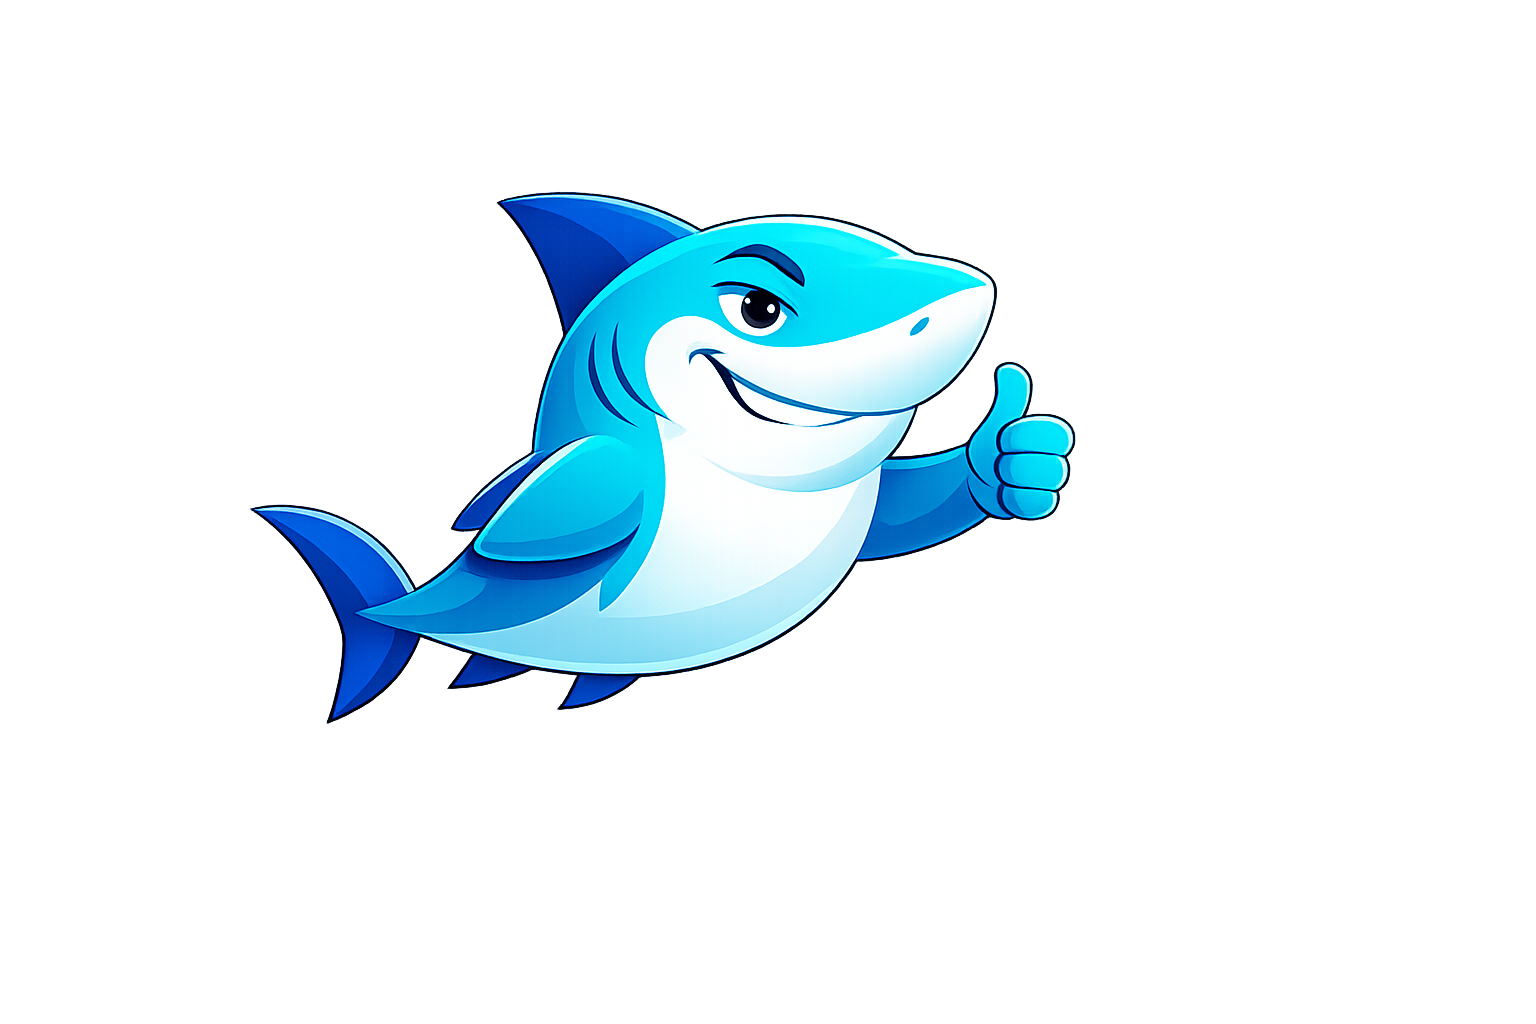
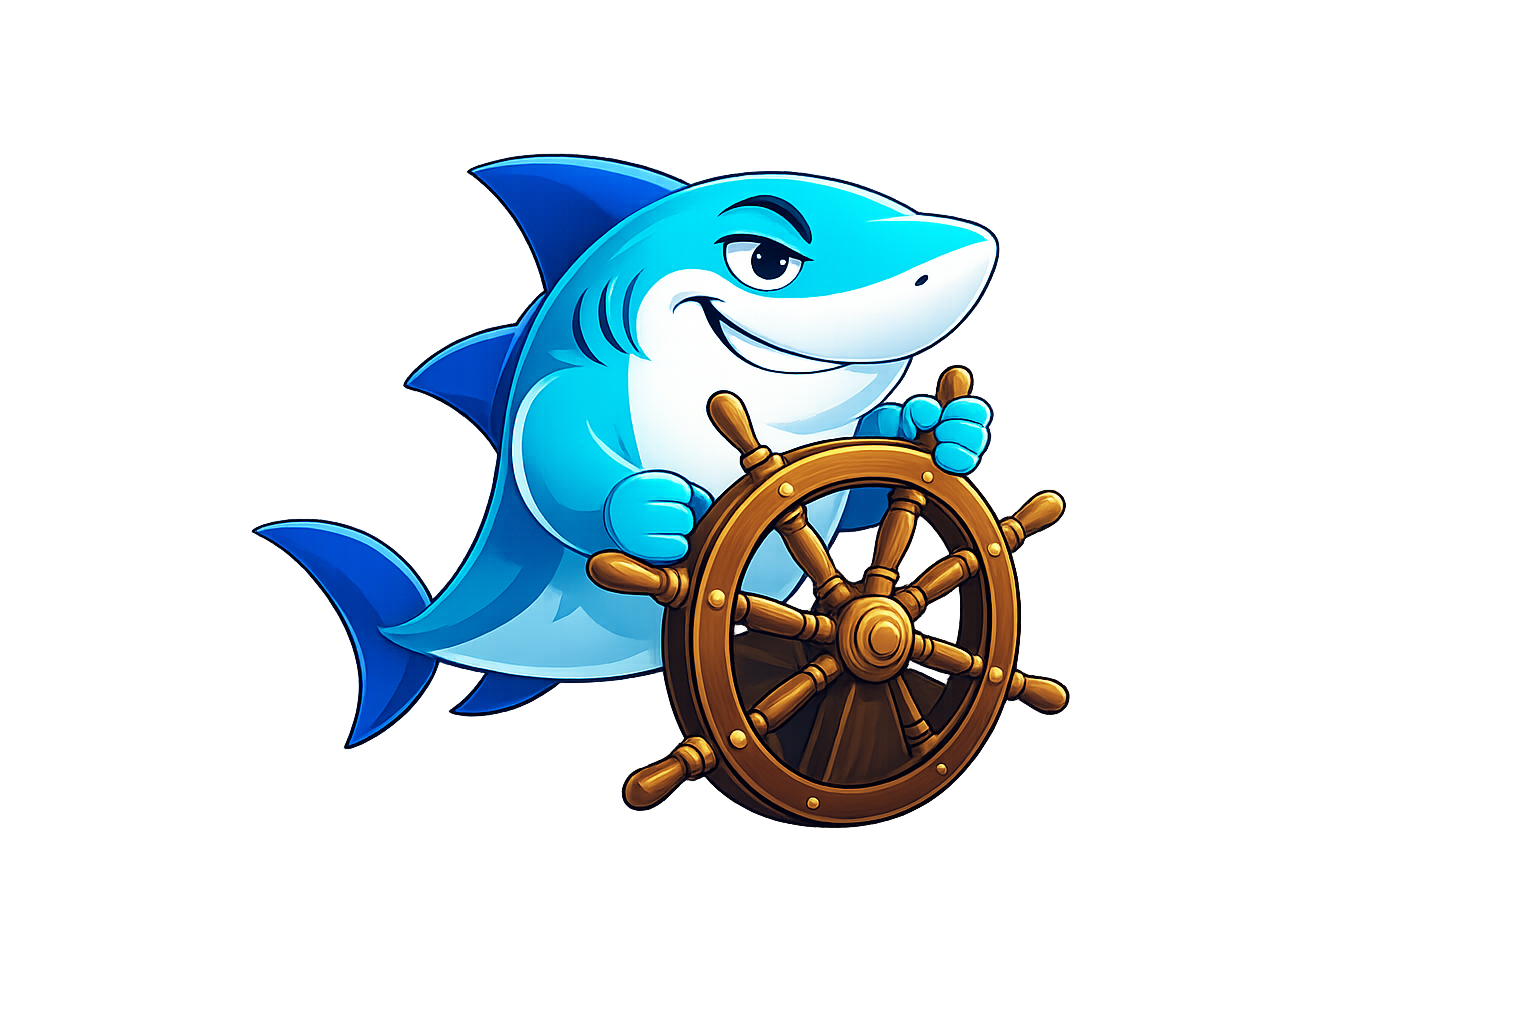
feat: teal accent, ArgoCD-style sidebar, floating AI panel, correct mascot (#12)
* feat(ui): ArgoCD-style sidebar logo, teal accent, remove docs/assistant routes

- Big mascot + version in sidebar logo (ArgoCD-inspired)
- Shift accent from cyan (hue 200) to teal (hue 185) to differentiate from ArgoCD
- Remove Docs and AI Assistant from sidebar nav
- AI accessed via floating panel (AWS Q pattern), docs via readthedocs
- Remove /assistant and /docs routes

* feat(ui): enhance floating AI panel with export, new chat, page context

* fix(ui): use correct mascot (shark at helm, not thumb-up)

Changed region(s): [[0.1562, 0.125, 0.7188, 0.8125]]

diff --git a/ui/src/components/Layout.tsx b/ui/src/components/Layout.tsx
@@ -6,7 +6,6 @@ import {
   Package,
   Activity,
   BarChart3,
-  BookOpen,
   Settings,
   ChevronLeft,
   ChevronRight,
@@ -17,7 +16,6 @@ import {
   User,
   Menu,
   Search,
-  MessageSquare,
 } from 'lucide-react'
 import { useConnections } from '@/hooks/useConnections'
 import { FloatingAssistant } from '@/components/FloatingAssistant'
@@ -60,13 +58,6 @@ const navSections: NavSection[] = [
       { to: '/settings', label: 'Settings', icon: Settings },
     ],
   },
-  {
-    label: 'Help',
-    items: [
-      { to: '/assistant', label: 'AI Assistant', icon: MessageSquare },
-      { to: '/docs', label: 'Docs', icon: BookOpen },
-    ],
-  },
 ]
 
 const routeLabels: Record<string, string> = {
@@ -76,9 +67,7 @@ const routeLabels: Record<string, string> = {
   'version-matrix': 'Version Drift Detector',
   observability: 'Observability',
   upgrade: 'Addon Upgrade Checker',
-  assistant: 'AI Assistant',
   dashboards: 'Dashboards',
-  docs: 'Docs',
   settings: 'Settings',
   users: 'User Management',
   'api-keys': 'API Keys',
@@ -151,12 +140,17 @@ export function Layout() {
         <Link
           to="/dashboard"
           aria-label="Sharko — go to dashboard"
-          className="flex h-14 items-center gap-2 border-b border-[#1A2D4A] px-4 transition-colors hover:bg-[#132038]"
+          className="flex items-center gap-3 border-b border-[#1A2D4A] px-4 py-3 transition-colors hover:bg-[#132038]"
           onClick={() => setMobileOpen(false)}
         >
-          <img src="/sharko-mascot.png" alt="" className="h-8 w-auto shrink-0" />
-          {!collapsed && (
-            <span className="text-sm font-bold text-cyan-400">Sharko</span>
+          <img src="/sharko-mascot.png" alt="" className={collapsed && !mobileOpen ? 'h-8 w-auto' : 'h-14 w-auto'} />
+          {(!collapsed || mobileOpen) && (
+            <div>
+              <span className="text-lg font-bold text-teal-400">Sharko</span>
+              {appVersion && (
+                <p className="text-[10px] text-[#5A7A9B]">v{appVersion}</p>
+              )}
+            </div>
           )}
         </Link>
 
@@ -179,7 +173,7 @@ export function Layout() {
                     className={({ isActive }) =>
                       `flex items-center gap-3 rounded-lg px-3 py-2 text-sm font-medium transition-colors ${
                         isActive
-                          ? 'border-l-[3px] border-cyan-400 bg-[#1A2D4A] text-white'
+                          ? 'border-l-[3px] border-teal-400 bg-[#1A2D4A] text-white'
                           : 'border-l-[3px] border-transparent text-[#94B8DB] hover:bg-[#132038] hover:text-white'
                       } ${collapsed && !mobileOpen ? 'justify-center px-0' : ''}`
                     }
@@ -194,13 +188,6 @@ export function Layout() {
           ))}
         </nav>
 
-        {/* Decorative mascot */}
-        {!collapsed && (
-          <div className="flex justify-center px-4 pb-2">
-            <img src="/sharko-mascot.png" alt="" className="h-20 w-auto opacity-60" />
-          </div>
-        )}
-
         {/* Collapse toggle */}
         <div className="border-t border-[#1A2D4A] p-2">
           <button
@@ -214,12 +201,6 @@ export function Layout() {
               <ChevronLeft className="h-5 w-5" />
             )}
           </button>
-
-          {appVersion && (
-            <p className="mt-1 text-center text-[10px] text-[#5A7A9B]" title={`Version ${appVersion}`}>
-              {collapsed ? `v${appVersion.split('.')[0]}` : `v${appVersion}`}
-            </p>
-          )}
         </div>
       </aside>
 

diff --git a/ui/src/index.css b/ui/src/index.css
@@ -55,20 +55,20 @@ body {
     --card-foreground: oklch(0.145 0.015 260);
     --popover: oklch(1 0 0);
     --popover-foreground: oklch(0.145 0.015 260);
-    --primary: oklch(0.72 0.155 200);
+    --primary: oklch(0.72 0.14 185);
     --primary-foreground: oklch(0.985 0 0);
     --secondary: oklch(0.95 0.01 220);
     --secondary-foreground: oklch(0.25 0.015 260);
     --muted: oklch(0.95 0.01 220);
     --muted-foreground: oklch(0.556 0.01 260);
-    --accent: oklch(0.72 0.155 200);
+    --accent: oklch(0.72 0.14 185);
     --accent-foreground: oklch(0.985 0 0);
     --destructive: oklch(0.577 0.245 27.325);
     --destructive-foreground: oklch(0.577 0.245 27.325);
     --border: oklch(0.88 0.015 220);
     --input: oklch(0.88 0.015 220);
-    --ring: oklch(0.72 0.155 200);
-    --chart-1: oklch(0.72 0.155 200);
+    --ring: oklch(0.72 0.14 185);
+    --chart-1: oklch(0.72 0.14 185);
     --chart-2: oklch(0.6 0.118 184.704);
     --chart-3: oklch(0.398 0.07 227.392);
     --chart-4: oklch(0.828 0.189 84.429);
@@ -76,12 +76,12 @@ body {
     --radius: 0.625rem;
     --sidebar: oklch(0.12 0.02 250);
     --sidebar-foreground: oklch(0.93 0.005 240);
-    --sidebar-primary: oklch(0.72 0.155 200);
+    --sidebar-primary: oklch(0.72 0.14 185);
     --sidebar-primary-foreground: oklch(0.985 0 0);
     --sidebar-accent: oklch(0.18 0.02 250);
     --sidebar-accent-foreground: oklch(0.93 0.005 240);
     --sidebar-border: oklch(0.22 0.02 250);
-    --sidebar-ring: oklch(0.72 0.155 200);
+    --sidebar-ring: oklch(0.72 0.14 185);
   }
 
   .dark {
@@ -91,32 +91,32 @@ body {
     --card-foreground: oklch(0.93 0.005 240);
     --popover: oklch(0.18 0.012 260);
     --popover-foreground: oklch(0.93 0.005 240);
-    --primary: oklch(0.7 0.155 200);
+    --primary: oklch(0.7 0.14 185);
     --primary-foreground: oklch(0.13 0.01 260);
     --secondary: oklch(0.25 0.012 260);
     --secondary-foreground: oklch(0.93 0.005 240);
     --muted: oklch(0.25 0.012 260);
     --muted-foreground: oklch(0.65 0.01 260);
-    --accent: oklch(0.7 0.155 200);
+    --accent: oklch(0.7 0.14 185);
     --accent-foreground: oklch(0.13 0.01 260);
     --destructive: oklch(0.396 0.141 25.723);
     --destructive-foreground: oklch(0.637 0.237 25.331);
     --border: oklch(0.28 0.012 260);
     --input: oklch(0.28 0.012 260);
-    --ring: oklch(0.7 0.155 200);
-    --chart-1: oklch(0.7 0.155 200);
+    --ring: oklch(0.7 0.14 185);
+    --chart-1: oklch(0.7 0.14 185);
     --chart-2: oklch(0.696 0.17 162.48);
     --chart-3: oklch(0.769 0.188 70.08);
     --chart-4: oklch(0.627 0.265 303.9);
     --chart-5: oklch(0.645 0.246 16.439);
     --sidebar: oklch(0.13 0.01 260);
     --sidebar-foreground: oklch(0.93 0.005 240);
-    --sidebar-primary: oklch(0.7 0.155 200);
+    --sidebar-primary: oklch(0.7 0.14 185);
     --sidebar-primary-foreground: oklch(0.93 0.005 240);
     --sidebar-accent: oklch(0.25 0.012 260);
     --sidebar-accent-foreground: oklch(0.93 0.005 240);
     --sidebar-border: oklch(0.28 0.012 260);
-    --sidebar-ring: oklch(0.7 0.155 200);
+    --sidebar-ring: oklch(0.7 0.14 185);
   }
 }
 

diff --git a/ui/src/components/FloatingAssistant.tsx b/ui/src/components/FloatingAssistant.tsx
@@ -11,7 +11,6 @@ const routeContext: Record<string, string> = {
   '/observability': 'the Observability page',
   '/upgrade': 'the Addon Upgrade Checker',
   '/settings': 'the Settings page',
-  '/docs': 'the Documentation',
 }
 
 function getPageContext(pathname: string): string | undefined {
@@ -52,13 +51,15 @@ export function FloatingAssistant() {
       {open && (
         <div className="fixed bottom-20 right-6 z-50 flex h-[600px] w-[420px] flex-col overflow-hidden rounded-2xl border border-gray-200 bg-white shadow-2xl dark:border-gray-700 dark:bg-gray-900">
           {/* Header */}
-          <div className="flex items-center justify-between border-b border-gray-200 bg-gradient-to-r from-cyan-600 to-blue-700 px-4 py-3 dark:border-gray-700">
+          <div className="flex items-center justify-between border-b border-gray-200 bg-gradient-to-r from-teal-600 to-blue-700 px-4 py-3 dark:border-gray-700">
             <div className="flex items-center gap-2 text-white">
               <Sparkles className="h-4 w-4" />
-              <span className="text-sm font-semibold">AI Assistant</span>
-              {pageContext && (
-                <span className="text-[10px] text-cyan-200">on {pageContext}</span>
-              )}
+              <div>
+                <span className="text-sm font-semibold">Sharko AI</span>
+                {pageContext && (
+                  <p className="text-[10px] text-teal-200">Viewing {pageContext}</p>
+                )}
+              </div>
             </div>
             <button
               onClick={() => setOpen(false)}
@@ -81,7 +82,7 @@ export function FloatingAssistant() {
         className={`fixed bottom-6 right-6 z-50 flex h-14 w-14 items-center justify-center rounded-full shadow-lg transition-all duration-200 ${
           open
             ? 'bg-gray-600 hover:bg-gray-700'
-            : 'bg-gradient-to-br from-cyan-500 to-blue-600 hover:from-cyan-600 hover:to-blue-700'
+            : 'bg-gradient-to-br from-teal-500 to-blue-600 hover:from-teal-600 hover:to-blue-700'
         }`}
         aria-label={open ? 'Close AI Assistant' : 'Open AI Assistant'}
       >

diff --git a/ui/src/views/AIAssistant.tsx b/ui/src/views/AIAssistant.tsx
@@ -480,12 +480,30 @@ export function AIAssistant({ embedded = false, pageContext, initialMessage }: {
           </div>
         </div>
       )}
-      {/* Embedded mini toolbar */}
-      {embedded && messages.length > 0 && (
-        <div className="flex items-center justify-end gap-2 border-b border-gray-200 px-3 py-1.5 dark:border-gray-700">
-          <button onClick={handleNewConversation} className="text-[10px] text-gray-500 hover:text-gray-700 dark:text-gray-400">
-            <RotateCcw className="inline h-3 w-3" /> New
-          </button>
+      {/* Embedded mini toolbar — always visible when embedded */}
+      {embedded && (
+        <div className="flex items-center justify-between border-b border-gray-200 px-3 py-1.5 dark:border-gray-700">
+          <span className="text-[10px] text-gray-400 dark:text-gray-500">
+            {messages.length > 0 ? `${messages.length} messages` : ''}
+          </span>
+          <div className="flex items-center gap-2">
+            {messages.length > 0 && (
+              <button
+                onClick={handleExport}
+                className="flex items-center gap-1 rounded px-2 py-1 text-[11px] text-gray-500 hover:bg-gray-100 hover:text-gray-700 dark:text-gray-400 dark:hover:bg-gray-800"
+              >
+                <Download className="h-3 w-3" />
+                Export
+              </button>
+            )}
+            <button
+              onClick={handleNewConversation}
+              className="flex items-center gap-1 rounded px-2 py-1 text-[11px] text-gray-500 hover:bg-gray-100 hover:text-gray-700 dark:text-gray-400 dark:hover:bg-gray-800"
+            >
+              <RotateCcw className="h-3 w-3" />
+              New Chat
+            </button>
+          </div>
         </div>
       )}
 

diff --git a/ui/src/App.tsx b/ui/src/App.tsx
@@ -10,11 +10,9 @@ import { ClusterDetail } from '@/views/ClusterDetail'
 import { AddonCatalog } from '@/views/AddonCatalog'
 import { AddonDetail } from '@/views/AddonDetail'
 import { VersionMatrix } from '@/views/VersionMatrix'
-import { Docs } from '@/views/Docs'
 import { Observability } from '@/views/Observability'
 import { Dashboards } from '@/views/Dashboards'
 import { UpgradeChecker } from '@/views/UpgradeChecker'
-import { AIAssistant } from '@/views/AIAssistant'
 import { UserInfo } from '@/views/UserInfo'
 import { Settings } from '@/views/Settings'
 
@@ -46,9 +44,7 @@ function AppRoutes() {
           <Route path="version-matrix" element={<VersionMatrix />} />
           <Route path="observability" element={<Observability />} />
           <Route path="upgrade" element={<UpgradeChecker />} />
-          <Route path="assistant" element={<AIAssistant />} />
           <Route path="dashboards" element={<Dashboards />} />
-          <Route path="docs" element={<Docs />} />
           <Route path="settings" element={<Settings />} />
           <Route path="users" element={<Navigate to="/settings?tab=users" replace />} />
           <Route path="api-keys" element={<Navigate to="/settings?tab=api-keys" replace />} />
